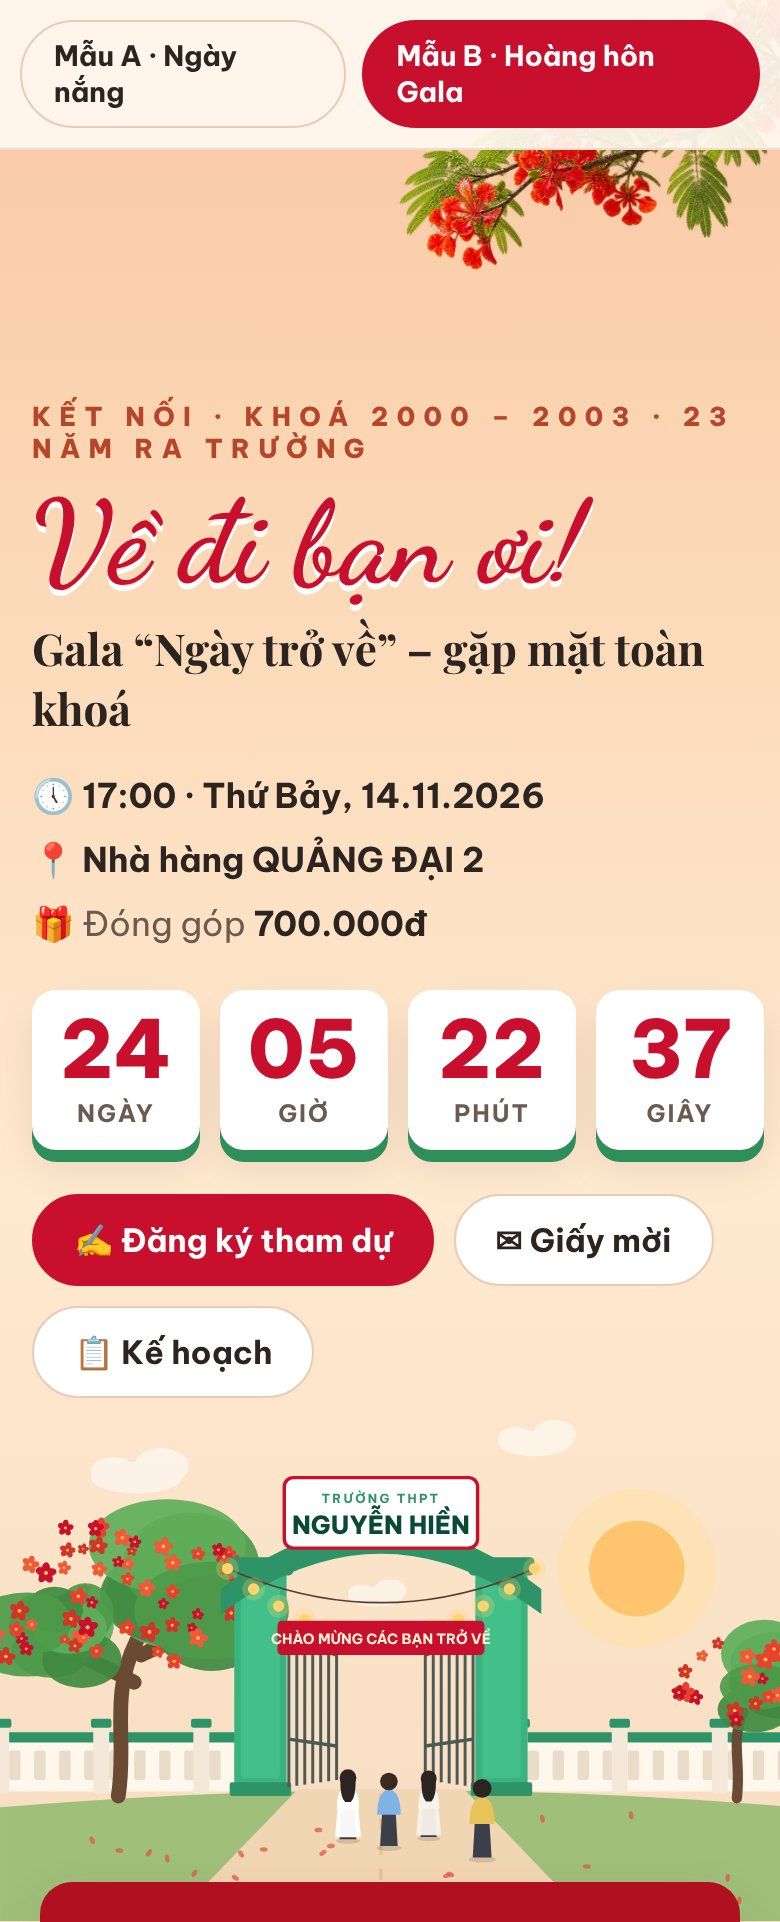
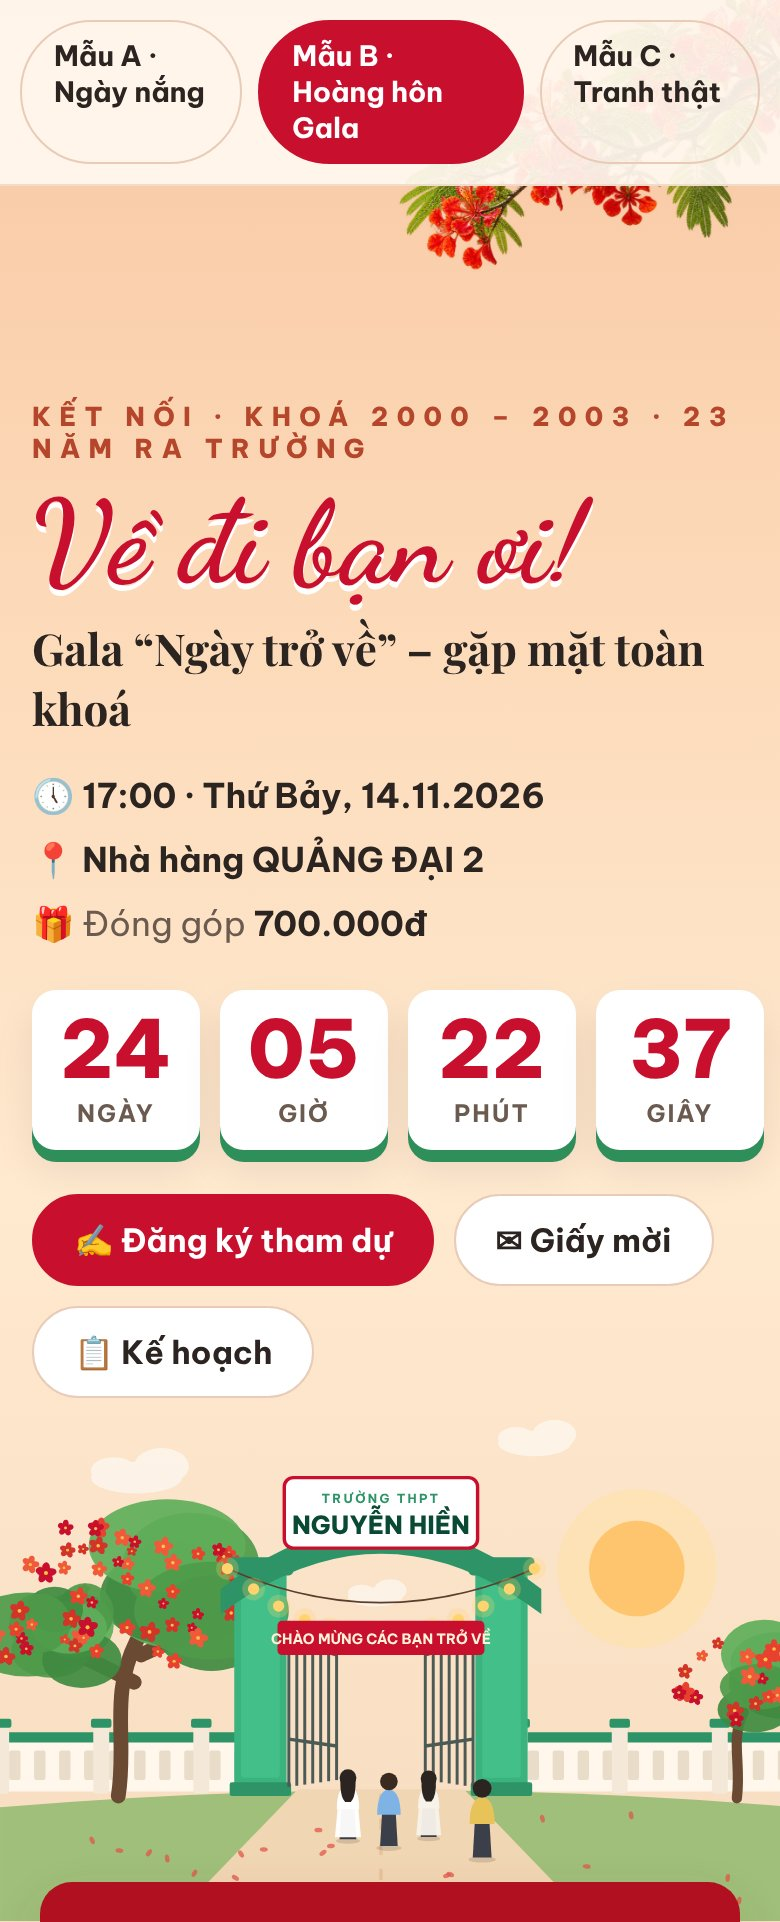
Demo cổng trường mẫu C: dùng tranh màu nước thật (sân trường, dãy lớp, cây phượng) hoà vào nền
Claude-Session: https://claude.ai/code/session_01Y1ZWh7bFy81zQtocY5fDHA

Changed region(s): [[0.0, 0.0, 1.0, 0.1249]]

diff --git a/thiet-ke/ket-noi/cong-demo.html b/thiet-ke/ket-noi/cong-demo.html
@@ -12,6 +12,15 @@
 .chon a.on{background:#C8102E;border-color:#C8102E;color:#fff}
 .hero{position:relative;overflow:hidden;display:grid;grid-template-columns:minmax(0,54%) minmax(0,46%);min-height:620px;background:var(--troi)}
 .a .hero{--troi:linear-gradient(180deg,#BFE4F3 0%,#E3F3EE 46%,#FFF0D9 82%,#F7E3C9 100%)}
+.c .hero{--troi:linear-gradient(180deg,#FBF5EC 0%,#F8EEDF 55%,#F3E3CE 100%)}
+.c .ey{color:#9E2219}
+/* Mẫu C: dùng lại tranh màu nước của giấy mời (cắt phần sân trường + dãy lớp + cây phượng), hoà mép vào nền */
+.c .r{display:flex;align-items:flex-end;justify-content:flex-end}
+.tranh{position:absolute;right:0;bottom:0;width:min(118%,760px);aspect-ratio:1050/1080;background:url(../../assets/giay-moi-nen.webp) 0 97.6%/133.4% auto no-repeat;
+ -webkit-mask-image:linear-gradient(90deg,transparent 0,#000 24%),linear-gradient(180deg,transparent 0,#000 26%),radial-gradient(130% 100% at 70% 80%,#000 55%,transparent 82%);-webkit-mask-composite:source-in,source-in;mask-image:linear-gradient(90deg,transparent 0,#000 24%),linear-gradient(180deg,transparent 0,#000 26%),radial-gradient(130% 100% at 70% 80%,#000 55%,transparent 82%);mask-composite:intersect}
+.tranh::after{content:'Sân trường Nguyễn Hiền · mùa phượng';position:absolute;right:26px;bottom:64px;font:400 19px 'Charm',cursive;color:#7A3B2E;background:rgba(255,250,240,.78);padding:4px 14px;border-radius:999px}
+.c .canh{opacity:.9}
+@media(max-width:760px){.c .r{height:clamp(280px,78vw,420px)}.tranh{width:100%;aspect-ratio:auto;height:100%;background-size:150% auto;background-position:8% 96%}.tranh::after{bottom:40px;right:12px;font-size:15px}}
 .b .hero{--troi:linear-gradient(180deg,#F9C7A3 0%,#FCD9B8 30%,#FFE9CF 62%,#F7DDC2 100%)}
 .l{position:relative;z-index:3;padding:52px clamp(16px,4vw,64px) 70px}
 .ey{font-size:13px;letter-spacing:.32em;font-weight:800;color:#2F8F5B}
@@ -32,7 +41,7 @@ h2{font:700 clamp(22px,2.3vw,30px) 'Playfair Display',serif;margin:0 0 18px}
 </style>
 </head>
 <body>
-<div class="chon"><a href="?m=a" id="ca">Mẫu A · Ngày nắng</a><a href="?m=b" id="cb">Mẫu B · Hoàng hôn Gala</a></div>
+<div class="chon"><a href="?m=a" id="ca">Mẫu A · Ngày nắng</a><a href="?m=b" id="cb">Mẫu B · Hoàng hôn Gala</a><a href="?m=c" id="cc">Mẫu C · Tranh thật</a></div>
 <section class="hero">
  <div class="canh"></div>
  <div class="l">
@@ -48,7 +57,7 @@ h2{font:700 clamp(22px,2.3vw,30px) 'Playfair Display',serif;margin:0 0 18px}
 <div class="the"><div></div><div></div></div>
 <div class="ghi" id="ghi"></div>
 <script>
-const m=new URLSearchParams(location.search).get('m')==='b'?'b':'a';document.body.className=m;document.getElementById('c'+m).classList.add('on');
+const m=({b:'b',c:'c'})[new URLSearchParams(location.search).get('m')]||'a';document.body.className=m;document.getElementById('c'+m).classList.add('on');
 let s=7;const rd=()=>{s=(s*16807)%2147483647;return s/2147483647};
 /* hoa phượng 5 cánh nhỏ */
 const hoa=(x,y,r,c)=>{let g='';for(let k=0;k<5;k++){const a=k*72+rd()*20;g+=`<ellipse cx="${x}" cy="${y-r*.55}" rx="${(r*.42).toFixed(1)}" ry="${(r*.62).toFixed(1)}" fill="${c}" transform="rotate(${a.toFixed(0)} ${x} ${y})"/>`}return g+`<circle cx="${x}" cy="${y}" r="${(r*.22).toFixed(1)}" fill="#F6C447"/>`};
@@ -88,8 +97,8 @@ function cong(){
  /* các bạn đang trở về */
  g+=nguoi(306,388,.82,'#FFFFFF','#2B2420',1)+nguoi(342,394,.86,'#7FB2E5','#3A2A20',0)+nguoi(377,386,.78,'#F7F2EA','#2B2420',1)+nguoi(424,404,.92,'#E7C35A','#2B2420',0);
  return `<svg viewBox="0 0 700 460" preserveAspectRatio="xMidYMax meet" aria-hidden="true">${g}</svg>`}
-document.getElementById('r').innerHTML=cong();
-document.getElementById('ghi').innerHTML=m==='b'
+document.getElementById('r').innerHTML=m==='c'?'<div class="tranh"></div>':cong();
+document.getElementById('ghi').innerHTML=m==='c'?'<b>Mẫu C · Tranh thật:</b> dùng lại tranh màu nước của giấy mời (dãy lớp học xanh, cây phượng đỏ, sân trường rải cánh phượng), mép hoà dần vào nền giấy kem; cùng một ảnh với giấy mời nên không tải thêm. Có thể thay bằng ảnh chụp thật cổng trường (link Drive) nếu Ban liên lạc có.':m==='b'
  ?'<b>Mẫu B · Hoàng hôn Gala:</b> nền trời cam hồng lúc 17:00 (đúng giờ Gala), dây đèn vàng giăng qua cổng, băng rôn đỏ “CHÀO MỪNG CÁC BẠN TRỞ VỀ”; vẫn giữ cổng, tường rào, cây phượng, các bạn đang đi vào.'
  :'<b>Mẫu A · Ngày nắng:</b> giữ trời xanh hiện tại; biển tên đặt lại (TRƯỜNG THPT nhỏ ở trên, NGUYỄN HIỀN to bên dưới, viền đỏ, không bị hoa che); trụ cổng có gờ, cánh cổng sắt mở; tường rào thấp kiểu trường thay hàng cọc; cây phượng có tán lá + hoa 5 cánh thay đám chấm tròn; sân lát dẫn vào cổng, cánh phượng rơi; 4 bạn (áo trắng, áo dài) đang đi về phía cổng.';
 </script>

diff --git a/thiet-ke/ket-noi/render-cong.js b/thiet-ke/ket-noi/render-cong.js
@@ -5,7 +5,7 @@ for(const [w,h,ten] of [[1366,700,'may-tinh'],[390,844,'dien-thoai']]){const p=a
  await p.goto('file://'+path.resolve(__dirname,'../../tai-ve/NguyenHien-2000-2003.html'));await p.waitForTimeout(2500);
  await p.evaluate(()=>{try{dongThu()}catch(e){}menu('connect')});await p.waitForTimeout(1200);await p.evaluate(()=>document.querySelectorAll('.bdemo,#tbNut').forEach(e=>e.remove()));
  await (await p.$('.p-kn .kn-hero')).screenshot({path:path.join(__dirname,'cong-hien-tai-'+ten+'.jpg'),type:'jpeg',quality:85});
- for(const m of ['a','b']){await p.goto('file://'+path.join(__dirname,'cong-demo.html?m='+m));await p.evaluate(()=>document.fonts.ready);await p.waitForTimeout(500);
+ for(const m of ['a','b','c']){await p.goto('file://'+path.join(__dirname,'cong-demo.html?m='+m));await p.evaluate(()=>document.fonts.ready);await p.waitForTimeout(500);
   await (await p.$('.hero')).screenshot({path:path.join(__dirname,'cong-'+m+'-'+ten+'.jpg'),type:'jpeg',quality:85})}
  await p.close()}
 await b.close()})();
